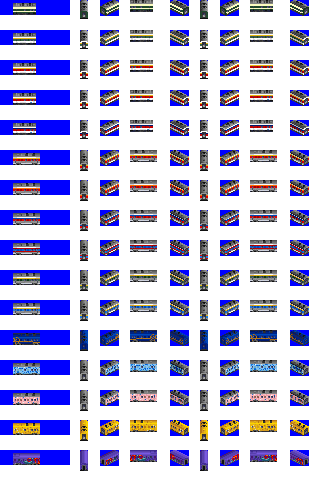
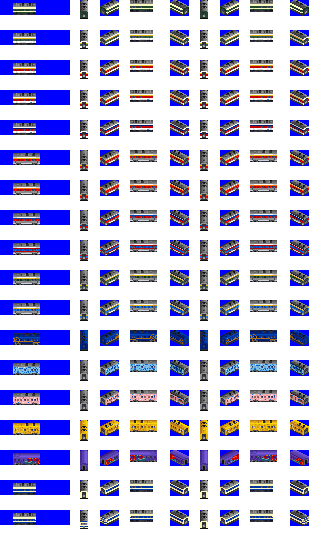
Add: K6x00 locomotive and Kwankwang-ho Closes #241 and #250

diff --git a/docs/download_page/japanese.html b/docs/download_page/japanese.html
@@ -62,7 +62,7 @@
     <tr data-veh_id="K5000">
         <td class="refit"><div><img src="./_static/K5000_BLACK_ORANGE.png" alt="5000号帯ディーゼル機関車"></div></td>
         <td class="name">5000号帯ディーゼル機関車</td>
-        <td class="speed">115 km/h</td>
+        <td class="speed">105 km/h</td>
         <td class="speed_designed">105 km/h</td>
         <td class="capacity"></td>
         <td class="power">2347 kW</td>

diff --git a/docs/download_page/korean.html b/docs/download_page/korean.html
@@ -62,7 +62,7 @@
     <tr data-veh_id="K5000">
         <td class="refit"><div><img src="./_static/K5000_BLACK_ORANGE.png" alt="5000호대 디젤 기관차"></div></td>
         <td class="name">5000호대 디젤 기관차</td>
-        <td class="speed">115 km/h</td>
+        <td class="speed">105 km/h</td>
         <td class="speed_designed">105 km/h</td>
         <td class="capacity"></td>
         <td class="power">2347 kW</td>

diff --git a/docs/download_page/english.html b/docs/download_page/english.html
@@ -62,7 +62,7 @@
     <tr data-veh_id="K5000">
         <td class="refit"><div><img src="./_static/K5000_BLACK_ORANGE.png" alt="5000 Diesel Locomotive"></div></td>
         <td class="name">5000 Diesel Locomotive</td>
-        <td class="speed">115 km/h</td>
+        <td class="speed">105 km/h</td>
         <td class="speed_designed">105 km/h</td>
         <td class="capacity"></td>
         <td class="power">2347 kW</td>

diff --git a/docs/changelog.md b/docs/changelog.md
@@ -1,8 +1,8 @@
 2.2.0
 -----
  * 추가: 수도권 1호선 371K 회사 색상 도색 추가 [#271]
- * 추가: 7x00호대 기관차에 관광호 도색 추가 [#241]
- * 추가: 6x00호대 기관차 [#250]
+ * 추가: 7x00호대 기관차에 관광호 도색 추가 [#241, #250]
+ * 추가: 6x00호대 기관차 (+관광호 도색) [#250]
  * 변경: 5000호대 기관차 길이 및 그래픽 변경 [#250]
  * 변경: [FIRS] 평판화차(장물차)가 생산 장비(ENSP), 농장 비품(FMSP)을 실을 경우 기둥 그래픽을 제거 [#257]
  * 변경: 부산 도시철도 전동차 그래픽 개선 [#270]

diff --git a/docs/download_page/japanese.md b/docs/download_page/japanese.md
@@ -62,7 +62,7 @@
     <tr data-veh_id="K5000">
         <td class="refit"><div><img src="./_static/K5000_BLACK_ORANGE.png" alt="5000号帯ディーゼル機関車"></div></td>
         <td class="name">5000号帯ディーゼル機関車</td>
-        <td class="speed">115 km/h</td>
+        <td class="speed">105 km/h</td>
         <td class="speed_designed">105 km/h</td>
         <td class="capacity"></td>
         <td class="power">2347 kW</td>

diff --git a/docs/download_page/korean.md b/docs/download_page/korean.md
@@ -62,7 +62,7 @@
     <tr data-veh_id="K5000">
         <td class="refit"><div><img src="./_static/K5000_BLACK_ORANGE.png" alt="5000호대 디젤 기관차"></div></td>
         <td class="name">5000호대 디젤 기관차</td>
-        <td class="speed">115 km/h</td>
+        <td class="speed">105 km/h</td>
         <td class="speed_designed">105 km/h</td>
         <td class="capacity"></td>
         <td class="power">2347 kW</td>

diff --git a/docs/download_page/english.md b/docs/download_page/english.md
@@ -62,7 +62,7 @@
     <tr data-veh_id="K5000">
         <td class="refit"><div><img src="./_static/K5000_BLACK_ORANGE.png" alt="5000 Diesel Locomotive"></div></td>
         <td class="name">5000 Diesel Locomotive</td>
-        <td class="speed">115 km/h</td>
+        <td class="speed">105 km/h</td>
         <td class="speed_designed">105 km/h</td>
         <td class="capacity"></td>
         <td class="power">2347 kW</td>
